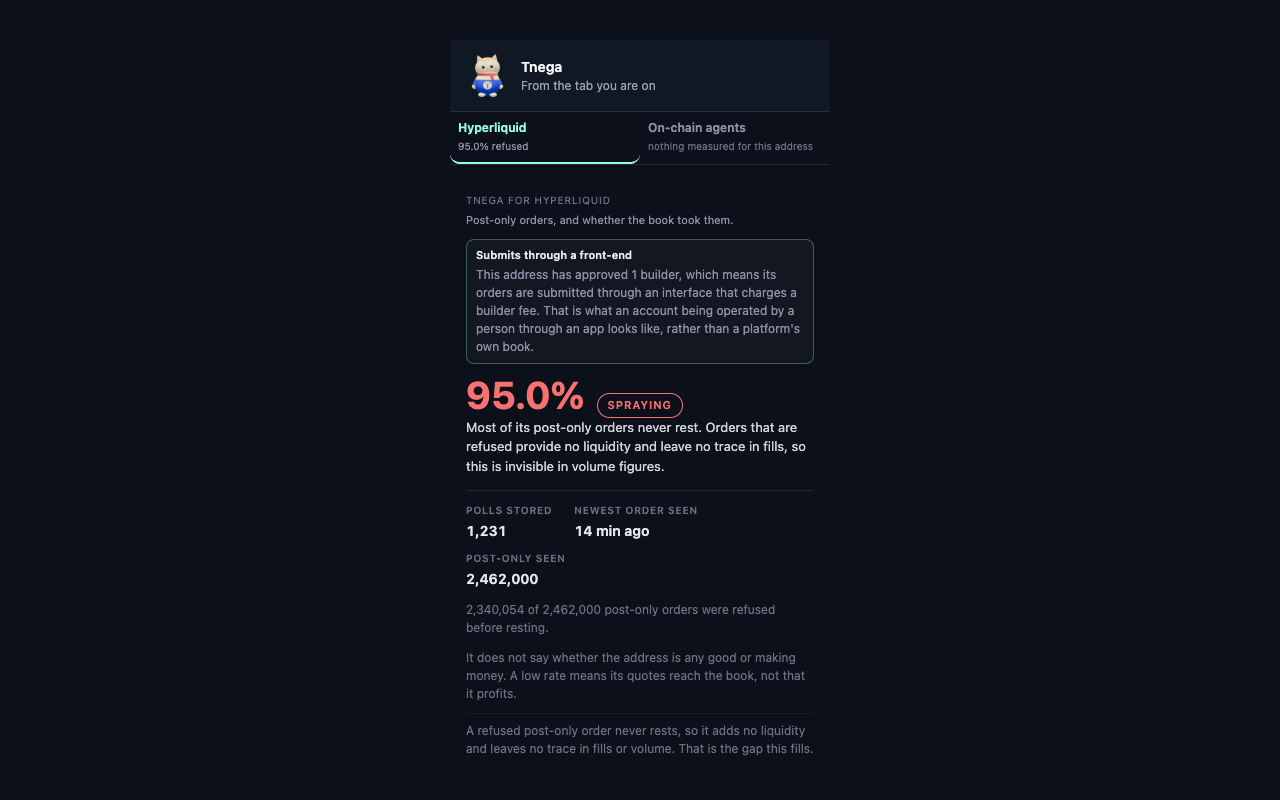
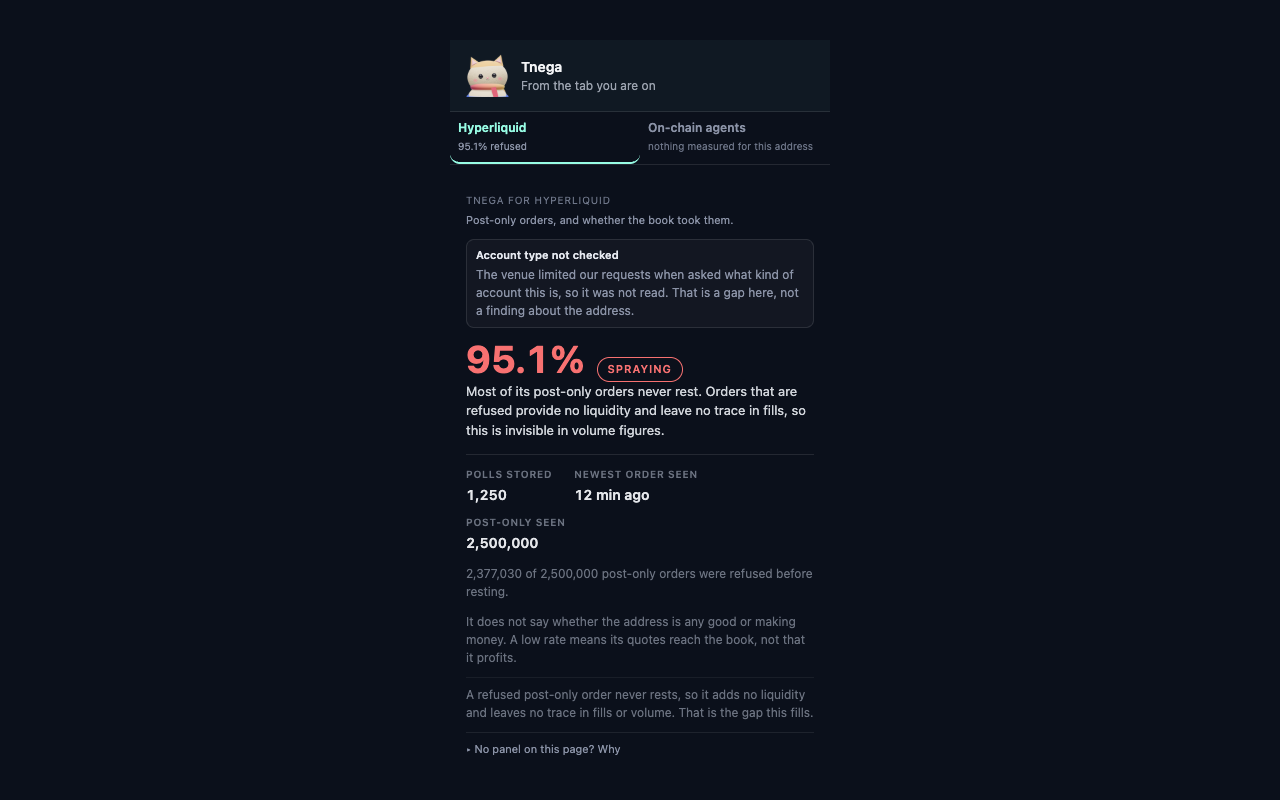
The mark is Fendi's head
Owner's decision, 2026-09-27: every place the site shows Fendi as the logo
uses his head only. The master is the owner's fendi-head-512.png, which is
now public/fendi-head-512.png. assets/fendi-head.png is that file scaled to
256px for the bundle, in place of fendi-mark.png.

Where it shows:
- The web header, the mobile header, the sign-in page and the QR centre, at
  the old tile's boxes (44px in the headers, 59px and 77px on sign-in). The
  head fills its square, so the face fills the box.
- The MCP server page, the MCP card and the npm README.
- The extension popup header, through icons/fendi-head-128.png. The
  panels keep the full-body Fendi. build.py packages the new icon.

The favicon (already his face) and the app icons are unchanged. Store
screenshots 3 and 4 are recaptured from the popup.

Checked in headless Chromium: the headers and sign-in, desktop and phone,
light and dark. The extension package check passes.

diff --git a/frontend/src/shell/Brand.jsx b/frontend/src/shell/Brand.jsx
@@ -4,15 +4,16 @@
 // mobile header and the sign-in page, so the three cannot drift apart in size,
 // spacing or artwork.
 //
-// The mark is Fendi, the Tnega cat (owner's decision, 2026-09-27: Fendi
-// replaces the logo everywhere). assets/fendi-mark.png is
-// public/fendi-mark-512.png, the owner's transparent master, scaled to 256px:
-// the largest box drawn here is 77px on the sign-in page, which 256px covers
-// at 3x without shipping the 512px file to every visitor.
+// The mark is Fendi's head (owner's decisions, 2026-09-27: Fendi replaces
+// the logo everywhere, and the logo is his head only, not the full body).
+// assets/fendi-head.png is public/fendi-head-512.png, the owner's
+// transparent master, scaled to 256px: the largest box drawn here is 77px on
+// the sign-in page, which 256px covers at 3x without shipping the 512px file
+// to every visitor.
 //
 // Sizes are the boxes the tile had (44px in both headers, 59px and 77px on
-// the sign-in page). The cat fills about nine tenths of its box's height and
-// two thirds of its width, so it reads at the size the tile did.
+// the sign-in page). The head fills its square edge to edge, so the face
+// fills the box the tile did.
 //
 // A flex box, not inline-flex: inline-flex sits on its parent's text baseline
 // and leaves a descender's gap under it, which put the tile 3px above the
@@ -21,7 +22,7 @@
 // The mark is decorative (alt=""); the wordmark carries the accessible name.
 
 import React from 'react';
-import markUrl from '../assets/fendi-mark.png';
+import markUrl from '../assets/fendi-head.png';
 import Wordmark from './Wordmark';
 
 export function TnegaMark({ className = 'w-[38px] h-[38px]' }) {

diff --git a/frontend/src/HowItWorksPage.jsx b/frontend/src/HowItWorksPage.jsx
@@ -59,7 +59,7 @@ import {
 import HowItWorksFlow from './HowItWorksFlow';
 import { CHROME_EXTENSION_URL, CHROME_EXTENSION_NAME } from './extensionLink';
 import { MCP_CLIENTS, EXTENSION_MARK } from './connectMarks';
-import fendiUrl from './assets/fendi-mark.png';
+import fendiUrl from './assets/fendi-head.png';
 
 // The bot's handle, in one place. Registered with BotFather on
 // 2026-09-17 and answering on a webhook mounted into this project's own
@@ -745,8 +745,8 @@ export default function HowItWorksPage({ variant = 'web' }) {
       key: 'mcp',
       title: MCP_TITLE,
       icon: Terminal,
-      // The server and the package carry Fendi, the Tnega mark (owner's
-      // decision, 2026-09-27: Fendi replaces the logo everywhere). The
+      // The server and the package carry Fendi's head, the Tnega mark
+      // (owner's decisions, 2026-09-27). The
       // extension beside it keeps its own toolbar tile, which is what a
       // reader will find in their browser.
       markSrc: fendiUrl,

diff --git a/frontend/src/AgentMarketplaceApp.web.jsx b/frontend/src/AgentMarketplaceApp.web.jsx
@@ -5,9 +5,9 @@ import {
   Loader2, AlertTriangle, Wallet, Hammer, Sparkles, Link2, BadgeCheck,
   Activity, Users, MessageSquare, ExternalLink, Zap, Coins, Search, Bell, Briefcase, HelpCircle, Bot, Clock, CreditCard, Plug, Compass,
 } from 'lucide-react';
-// Fendi, the Tnega mark, in the centre of the QR code below (QrToMobile).
+// Fendi's head, the Tnega mark, in the centre of the QR code below (QrToMobile).
 // Same file as the header's mark; see shell/Brand.jsx.
-import iconLogo from './assets/fendi-mark.png';
+import iconLogo from './assets/fendi-head.png';
 
 import { QRCodeCanvas } from 'qrcode.react';
 import NotificationBell from './NotificationBell';

diff --git a/extension/popup.css b/extension/popup.css
@@ -37,8 +37,9 @@ header {
   border-bottom: 1px solid var(--line);
 }
 
-/* Fendi, the Tnega mark, heads the popup as he heads the site (owner's
-   decision, 2026-09-27). The toolbar icon stays the blue tile. */
+/* Fendi's head, the Tnega mark, heads the popup as it heads the site
+   (owner's decisions, 2026-09-27). The toolbar icon stays the blue tile;
+   the panels keep the full-body Fendi. */
 header img { width: 43px; height: 43px; object-fit: contain; flex: 0 0 auto; }
 header h1 { font-size: 14px; font-weight: 600; margin: 0; color: #F3F4F6; }
 header p { margin: 0; font-size: 12px; color: var(--muted); }

diff --git a/frontend/src/pages/UseWithAi.jsx b/frontend/src/pages/UseWithAi.jsx
@@ -11,8 +11,8 @@
 import React from 'react';
 import { McpFront, McpDetails, MCP_TITLE, MCP_LINE } from '../HowItWorksPage';
 import { PageFrame } from './PageFrame';
-// Fendi, the Tnega mark, heads the server's card as it heads every page.
-import fendiUrl from '../assets/fendi-mark.png';
+// Fendi's head, the Tnega mark, heads the server's card as it heads every page.
+import fendiUrl from '../assets/fendi-head.png';
 
 export default function UseWithAi({ layout = 'web' }) {
   const compact = layout === 'mobile';

diff --git a/extension/popup.html b/extension/popup.html
@@ -7,7 +7,7 @@
 </head>
 <body>
   <header>
-    <img src="icons/fendi-128.png" alt="" />
+    <img src="icons/fendi-head-128.png" alt="" />
     <div>
       <h1>Tnega</h1>
       <p id="context">Checking this tab…</p>

diff --git a/extension-store/build.py b/extension-store/build.py
@@ -67,10 +67,11 @@ FILES = [
     "icons/tnega-32.png",
     "icons/tnega-48.png",
     "icons/tnega-128.png",
-    # Fendi, the Tnega mark: the popup header (fendi-128.png) and the
-    # Hyperliquid panels. One framing at three sizes, picked by srcset.
-    # Declared in the manifest's web_accessible_resources, so all three have
-    # to be in the package.
+    # Fendi's head, the Tnega mark in the popup header.
+    "icons/fendi-head-128.png",
+    # The full-body Fendi in the Hyperliquid panels. One framing at three
+    # sizes, picked by srcset. Declared in the manifest's
+    # web_accessible_resources, so all three have to be in the package.
     "icons/fendi-32.png",
     "icons/fendi-48.png",
     "icons/fendi-128.png",

diff --git a/extension-store/icons.py b/extension-store/icons.py
@@ -47,7 +47,8 @@ Edit the master, run this, rebuild the zip. Nothing else touches these files.
 The panel's cat, Fendi, is not generated here. fendi-128.png is the owner's
 file as supplied; fendi-32.png and fendi-48.png are Lanczos downscales of the
 owner's 512px master, which is not in the repository, at the same framing.
-He heads the popup and is shown inside the panels. This script makes the
+His head (fendi-head-128.png, the owner's fendi-head-512.png scaled down)
+heads the popup; the full body is shown inside the panels. This script makes the
 tile, which is what the toolbar, the store icon and the promo tiles carry.
 """
 

diff --git a/mcp/npm/README.md b/mcp/npm/README.md
@@ -1,4 +1,4 @@
-<img src="https://www.tnega.app/fendi-mark-512.png" alt="" width="112" align="right" />
+<img src="https://www.tnega.app/fendi-head-512.png" alt="" width="112" align="right" />
 
 # tnega-mcp
 
